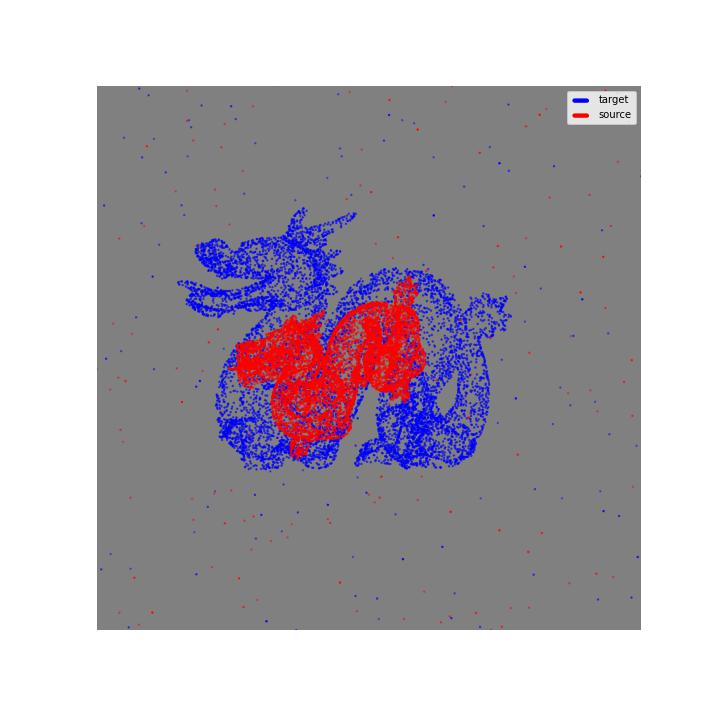
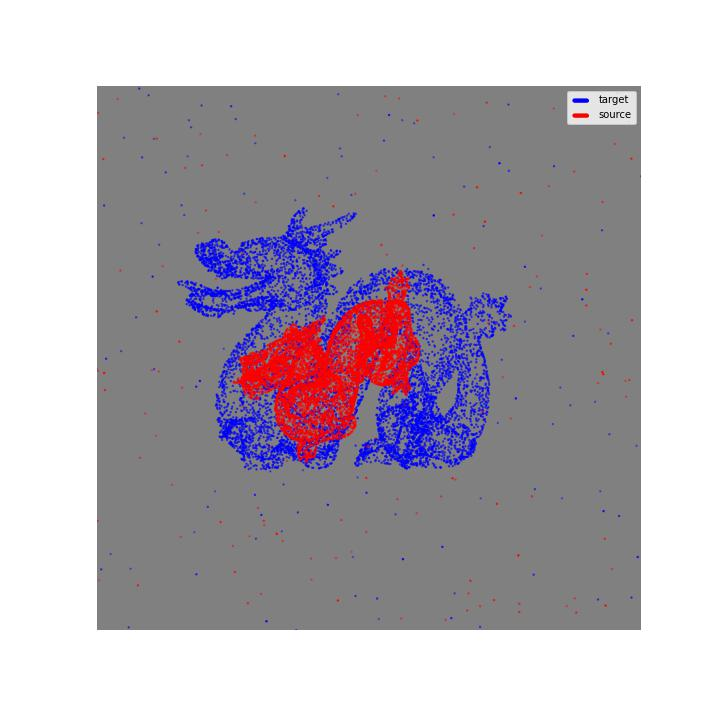
modified:   code/experiment/shape_registration/result/dragon/10k-7p/spot/0.jpg 	modified:   code/experiment/shape_registration/result/dragon/10k-7p/spot/1.jpg 	modified:   code/experiment/shape_registration/result/dragon/10k-7p/spot/2.jpg 	modified:   code/experiment/shape_registration/result/dragon

Changed region(s): [[0.3056, 0.3667, 0.6111, 0.6417], [0.7944, 0.3972, 0.825, 0.4278]]

diff --git a/code/sopt2/sliced_opt.py b/code/sopt2/sliced_opt.py
@@ -122,6 +122,25 @@ def X_correspondence(X,Y,projections,Lambda_list):
 #             Delta=Delta/10
 #    print(mass_diff)
     return frequency,Lambda
+
+@nb.njit((nb.float32[:,:],nb.float32[:,:],nb.float32[:,:]))
+def X_correspondence_pot(X,Y,projections):
+    N,d=projections.shape
+    n=X.shape[0]
+    for i in range(N):
+        theta=projections[i]
+        X_theta=mat_vec_mul(X.T,theta)
+        Y_theta=mat_vec_mul(Y.T,theta)
+        X_indice=X_theta.argsort()
+        Y_indice=Y_theta.argsort()
+        X_s=X_theta[X_indice]
+        Y_s=Y_theta[Y_indice]
+        cost,L=pot_1d(X_s,Y_s)
+        L=recover_indice(X_indice,Y_indice,L)
+        X_take=X_theta
+        Y_take=Y_theta[L]
+        X+=transpose(Y_take-X_take)*theta
+
     
     
     
@@ -201,33 +220,13 @@ class sopt():
 
 
         
+        
 class sopt_correspondence(sopt):
     def __init__(self,X,Y,Lambda_list,N_projections=20,Type=None):
         sopt.__init__(self,X,Y,Lambda_list,N_projections,Type)
         self.Xc=self.X.clone()
-#        self.Lambda_list=torch.full((self.n_projections,),Lambda)
-        #self.n_lambda=Lambda_list.shape[0]
+        #X_correspondence(self.X.numpy(),self.Y.numpy(),self.projections.numpy())
         
-    # def get_plans_lambda(self):
-    #     self.get_directions()
-    #     self.get_all_projections()
-    #     X_sliced_s,indices_X=self.X_sliced.detach().sort()
-    #     Y_sliced_s,indices_Y=self.Y_sliced.detach().sort()
-    #     X_sliced_np=X_sliced_s.cpu().numpy()
-    #     Y_sliced_np=Y_sliced_s.cpu().numpy()
-    #     Lambda_list_np=self.Lambda_list.numpy()
-    #     self.costs,plans=allplans_Lambda(X_sliced_np,Y_sliced_np,Lambda_list_np)
-    #     #costs=costs.reshape(-1)
-    #    #plans=plans.reshape(self.n_lambda*self.n_projections,self.n)
-    #     plans=torch.from_numpy(plans).to(device=self.device,dtype=torch.int64)
-    #     self.plans=[]
-    #     for i in range(self.n_lambda):
-    #         plan=recover_indice_M(indices_X,indices_Y,plans[i*self.n_projections:i*self.n_projections+self.n_projections])
-    #         self.plans.append(plan)
-    #     self.plans=torch.cat(self.plans)
-    #     self.costs=torch.from_numpy(self.costs)
-    #     self.X_frequency=torch.sum(self.plans>=0,0)
-
 
     def correspond(self,mass=-1,b=np.float32(0)):
         
@@ -247,11 +246,6 @@ class sopt_correspondence(sopt):
 
         transp_Xs = []
 
-        # transp = self.coupling_ / nx.sum(
-        #             self.coupling_, axis=1)[:, None]
-        #         transp[~ nx.isfinite(transp)] = 0
-        #         transp_Xs_ = nx.dot(transp, self.xt_)
-
         for bi in batch_ind:
             # get the nearest neighbor in the source domain
             D0 = cost_matrix_T(Xs[bi], self.Xc)
@@ -266,7 +260,10 @@ class sopt_correspondence(sopt):
     
         
         
-        
+class spot(sopt_correspondence):
+    def correspond(self):    
+        if self.X.shape[0]>0:
+            X_correspondence_pot(self.X.numpy(),self.Y.numpy(),self.projections.numpy())      
     
 
 
@@ -284,48 +281,48 @@ class sopt_correspondence(sopt):
 
         
 
-class max_sopt(sopt):
+# class max_sopt(sopt):
     
-    def max_cost(self):
-        max_index=self.costs.argmax()
-        max_plan=self.plans[max_index].reshape([1,self.n])
-        X_max=self.X_sliced[max_index].reshape([1,self.n])
-        Y_max=self.Y_sliced[max_index].reshape([1,self.m])
-        max_cost=self.refined_cost(X_max, Y_max, max_plan)
-        max_mass=torch.sum(max_plan>=0)        
-        return max_cost,max_mass
+#     def max_cost(self):
+#         max_index=self.costs.argmax()
+#         max_plan=self.plans[max_index].reshape([1,self.n])
+#         X_max=self.X_sliced[max_index].reshape([1,self.n])
+#         Y_max=self.Y_sliced[max_index].reshape([1,self.m])
+#         max_cost=self.refined_cost(X_max, Y_max, max_plan)
+#         max_mass=torch.sum(max_plan>=0)        
+#         return max_cost,max_mass
     
 
-# class sopt_majority(sopt):
-#     def __init__(self,X,Y,Lambda,n_projections=2,Type=None,n_destroy=0):
-#         sopt_for.__init__(self,X,Y,Lambda,n_projections,Type)
-#         #self.n_preserve=N
-#         self.new_plan(n_destroy)
+# # class sopt_majority(sopt):
+# #     def __init__(self,X,Y,Lambda,n_projections=2,Type=None,n_destroy=0):
+# #         sopt_for.__init__(self,X,Y,Lambda,n_projections,Type)
+# #         #self.n_preserve=N
+# #         self.new_plan(n_destroy)
     
-#     def new_plan(self,n_destroy):
+# #     def new_plan(self,n_destroy):
+# #         self.new_plans=self.plans.clone()
+# #         X_frequency=torch.sum(self.plans>=0,0)
+# #         lowest_frequency=X_frequency.sort().indices[0:n_destroy]
+# #         self.new_plans[:,lowest_frequency]=-1
+# #     def sliced_cost(self):
+# #         cost=self.refined_cost(self.X_sliced,self.Y_sliced,self.new_plans)
+# #         mass=torch.sum(self.plans>=0)/self.n_projections
+# #         return cost,mass
+
+# class sopt_majority_cut(sopt):
+#     def __init__(self,X,Y,Lambda,n_projections=2,Type=None,cut=0):
+#         sopt_for.__init__(self,X,Y,Lambda,n_projections,Type)
+#         self.new_plan(cut)
+    
+#     def new_plan(self,cut):
 #         self.new_plans=self.plans.clone()
 #         X_frequency=torch.sum(self.plans>=0,0)
-#         lowest_frequency=X_frequency.sort().indices[0:n_destroy]
-#         self.new_plans[:,lowest_frequency]=-1
+        
+#         self.new_plans[:,X_frequency<=cut]=-1
 #     def sliced_cost(self):
 #         cost=self.refined_cost(self.X_sliced,self.Y_sliced,self.new_plans)
 #         mass=torch.sum(self.plans>=0)/self.n_projections
 #         return cost,mass
-
-class sopt_majority_cut(sopt):
-    def __init__(self,X,Y,Lambda,n_projections=2,Type=None,cut=0):
-        sopt_for.__init__(self,X,Y,Lambda,n_projections,Type)
-        self.new_plan(cut)
-    
-    def new_plan(self,cut):
-        self.new_plans=self.plans.clone()
-        X_frequency=torch.sum(self.plans>=0,0)
-        
-        self.new_plans[:,X_frequency<=cut]=-1
-    def sliced_cost(self):
-        cost=self.refined_cost(self.X_sliced,self.Y_sliced,self.new_plans)
-        mass=torch.sum(self.plans>=0)/self.n_projections
-        return cost,mass
     
     
         
@@ -346,69 +343,69 @@ class sopt_majority_cut(sopt):
     
 
 
-def sopt_orig(X,Y,Lambda=40,n_projections=50,Type=None):
-    '''
-    input: 
-    X: X is n*d dimension torch tensor
-    Y: Y is m*d dimension torch tensor
+# def sopt_orig(X,Y,Lambda=40,n_projections=50,Type=None):
+#     '''
+#     input: 
+#     X: X is n*d dimension torch tensor
+#     Y: Y is m*d dimension torch tensor
 
-    output: 
-    cost_sum: 0-dimension tensor
-    n_point_sum: int tensor
-    '''
-    d=X.shape[1]
-    device=X.device.type
-    dtype=X.dtype
-    projections=random_projections(d,n_projections,device,dtype,Type)
-    X_sliced=torch.matmul(projections,X.T)
-    Y_sliced=torch.matmul(projections,Y.T)
-    cost_sum=0
-    n_point_sum=0
-    for i in range(0,n_projections):
-        X_theta=X_sliced[i,:]
-        Y_theta=Y_sliced[i,:]
-        X_theta1=X_theta.sort().values
-        Y_theta1=Y_theta.sort().values
-        cost,L=opt_1d_T(X_theta1, Y_theta1, Lambda)
-        cost_sum+=cost
-        n_point_sum+=torch.sum(L>=0)
+#     output: 
+#     cost_sum: 0-dimension tensor
+#     n_point_sum: int tensor
+#     '''
+#     d=X.shape[1]
+#     device=X.device.type
+#     dtype=X.dtype
+#     projections=random_projections(d,n_projections,device,dtype,Type)
+#     X_sliced=torch.matmul(projections,X.T)
+#     Y_sliced=torch.matmul(projections,Y.T)
+#     cost_sum=0
+#     n_point_sum=0
+#     for i in range(0,n_projections):
+#         X_theta=X_sliced[i,:]
+#         Y_theta=Y_sliced[i,:]
+#         X_theta1=X_theta.sort().values
+#         Y_theta1=Y_theta.sort().values
+#         cost,L=opt_1d_T(X_theta1, Y_theta1, Lambda)
+#         cost_sum+=cost
+#         n_point_sum+=torch.sum(L>=0)
 
         
-    cost_sum=cost_sum/n_projections
-    n_point_sum=n_point_sum/n_projections
-    return cost_sum,n_point_sum
+#     cost_sum=cost_sum/n_projections
+#     n_point_sum=n_point_sum/n_projections
+#     return cost_sum,n_point_sum
 
 
 
-def max_sopt_orig(X,Y,Lambda=40,n_projections=50,Type=None):
-    '''
-    input: 
-    X: X is n*d dimension torch tensor
-    Y: Y is m*d dimension torch tensor
+# def max_sopt_orig(X,Y,Lambda=40,n_projections=50,Type=None):
+#     '''
+#     input: 
+#     X: X is n*d dimension torch tensor
+#     Y: Y is m*d dimension torch tensor
 
-    output: 
-    cost_sum: 0-dimension tensor
-    n_point_sum: int tensor
-    '''
-    device=X.device.type
-    dtype=X.dtype
-    d=X.shape[1]
-    projections=random_projections(d,n_projections,device,dtype,Type)
-    X_sliced=torch.matmul(projections,X.T)
-    Y_sliced=torch.matmul(projections,Y.T)
-    cost_opt=-1
-    for i in range(0,n_projections):
-        X_theta=X_sliced[i,:]
-        Y_theta=Y_sliced[i,:]
-        X_theta=X_theta.sort().values
-        Y_theta=Y_theta.sort().values
-        cost,L=opt_1d_T(X_theta, Y_theta, Lambda)
-        if cost_opt<cost:
-            cost_opt=cost
-            L_opt=L
-    mass_opt=torch.sum(L_opt>=0)
+#     output: 
+#     cost_sum: 0-dimension tensor
+#     n_point_sum: int tensor
+#     '''
+#     device=X.device.type
+#     dtype=X.dtype
+#     d=X.shape[1]
+#     projections=random_projections(d,n_projections,device,dtype,Type)
+#     X_sliced=torch.matmul(projections,X.T)
+#     Y_sliced=torch.matmul(projections,Y.T)
+#     cost_opt=-1
+#     for i in range(0,n_projections):
+#         X_theta=X_sliced[i,:]
+#         Y_theta=Y_sliced[i,:]
+#         X_theta=X_theta.sort().values
+#         Y_theta=Y_theta.sort().values
+#         cost,L=opt_1d_T(X_theta, Y_theta, Lambda)
+#         if cost_opt<cost:
+#             cost_opt=cost
+#             L_opt=L
+#     mass_opt=torch.sum(L_opt>=0)
 
-    return cost_opt,mass_opt
+#     return cost_opt,mass_opt
 
 
     

diff --git a/code/experiment/shape_registration/spot_Bonneel.py b/code/experiment/shape_registration/spot_Bonneel.py
@@ -22,15 +22,16 @@ import matplotlib.pyplot as plt
 import torch
 from torch import optim
 import ot
+import time
 
 work_path=os.path.dirname(__file__)
 loc1=work_path.find('/code')
 parent_path=work_path[0:loc1+5]
 sys.path.append(parent_path)
 os.chdir(parent_path)
-item='/stanford_bunny'
+item='/dragon'
 #'/stanford_bunny' #'/witchcastle' #'mumble_sitting'
-exp_num='/stanford_bunny' 
+exp_num=item 
 #'/stanford_bunny'#'/witchcastle' #'mumble_sitting'
 
 from sopt2.library import *
@@ -99,12 +100,11 @@ for (label,per_s) in [('0','-7p'),('1','-5p'),('1','-7p')]:
     X1_hat=Y1T@rotation*scalar+beta   
     
     #A=sopt(X1_hat,X1T,Lambda,n_iteration,'orth')
-    A=sopt_correspondence(X1_hat,X1T,Lambda,100,'orth')
+    A=spot(X1_hat,X1T,Lambda,100,'orth')
     mass_diff=0
     for epoch in range(n_iteration):
-        
         A.get_directions()
-        A.correspond(N)
+        A.correspond()
         Y1_take=Y1T
         X1_hat_take=A.X
         rotation,scalar=recover_rotation(X1_hat_take,Y1_take)
@@ -120,39 +120,42 @@ for (label,per_s) in [('0','-7p'),('1','-5p'),('1','-7p')]:
         paramlist.append(param)
     
         
-    #     if epoch<=200 or epoch%20==0 or epoch==n_iteration-1:
-    #         print('training Epoch {}/{}'.format(epoch, n_iteration))
-    #         print('scalar',scalar)
-    #         print('rotation',rotation)
-    #         print('beta',beta)
+        if epoch<=200 or epoch%20==0 or epoch==n_iteration-1:
+            print('training Epoch {}/{}'.format(epoch, n_iteration))
+            print('scalar',scalar)
+            print('rotation',rotation)
+            print('beta',beta)
         
-    #         X1_hat_c=A.X.clone().detach().cpu()
+            X1_hat_c=A.X.clone().detach().cpu()
             
-    #         fig = plt.figure(figsize=(10,10))
-    #         ncolors = len(plt.rcParams['axes.prop_cycle'])
-    #         ax = fig.add_subplot(111, projection='3d')
-    #         ax.scatter(X1[:,0],X1[:,1],X1[:,2],s=2,label='target',color='blue') # plot the point (2,3,4) on the figure
-    #         ax.scatter(X1_hat_c[:,0],X1_hat_c[:,1],X1_hat_c[:,2],s=2,label='source',color='red') # plot the point (2,3,4) on the figure
-    #         plt.axis('off')
-    #         ax.set_facecolor("grey")
-    #         ax.grid(False)
-    #         ax.set_xlim3d(-0.08,0.12)
-    #         ax.set_ylim3d(0.06,0.2)
-    #         ax.set_zlim3d(-0.02,0.14)
-    #         ax.view_init(10,5,'y')
-    # #        ax.view_init(10,5,'y')
-    #         # ax.set_xticks([])
-    #         # ax.set_yticks([])
-    #         # ax.set_zticks([])
-    #         # ax.view_init(10,5,'y')
+            fig = plt.figure(figsize=(10,10))
+            ncolors = len(plt.rcParams['axes.prop_cycle'])
+            ax = fig.add_subplot(111, projection='3d')
+            ax.scatter(X1[:,0],X1[:,1],X1[:,2],s=2,label='target',color='blue') # plot the point (2,3,4) on the figure
+            ax.scatter(X1_hat_c[:,0],X1_hat_c[:,1],X1_hat_c[:,2],s=2,label='source',color='red') # plot the point (2,3,4) on the figure
+            plt.axis('off')
+            ax.set_facecolor("grey")
+            ax.grid(False)
+            ax.set_xlim3d(-0.08,0.12)
+            ax.set_ylim3d(0.06,0.2)
+            ax.set_zlim3d(-0.02,0.14)
+            ax.view_init(10,5,'y')
+    #        ax.view_init(10,5,'y')
+            # ax.set_xticks([])
+            # ax.set_yticks([])
+            # ax.set_zticks([])
+            # ax.view_init(10,5,'y')
             
-    #         plt.legend(loc='upper right',scatterpoints=100)
+            plt.legend(loc='upper right',scatterpoints=100)
     
-    #         plt.savefig('experiment/shape_registration/result/'+exp_num+n_point+per_s+'/spot/'+str(epoch)+'.jpg')
-    #         plt.show()
-    #         plt.close()
-    #         print('-' * 10)
+            plt.savefig('experiment/shape_registration/result/'+exp_num+n_point+per_s+'/spot/'+str(epoch)+'.jpg')
+            plt.show()
+            plt.close()
+            print('-' * 10)
+    
         
     
+    end_time=time.time()
+    time=end_time-start_time()
     
     torch.save(paramlist,'experiment/shape_registration/result/'+exp_num+n_point+per_s+'/spot_param.pt')
